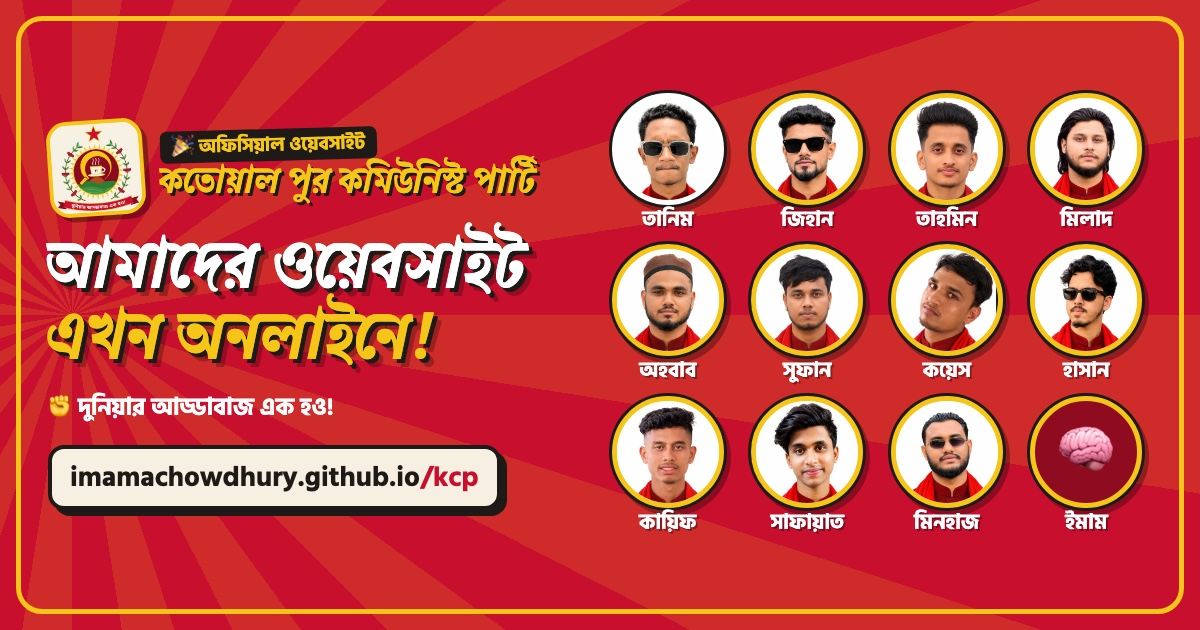
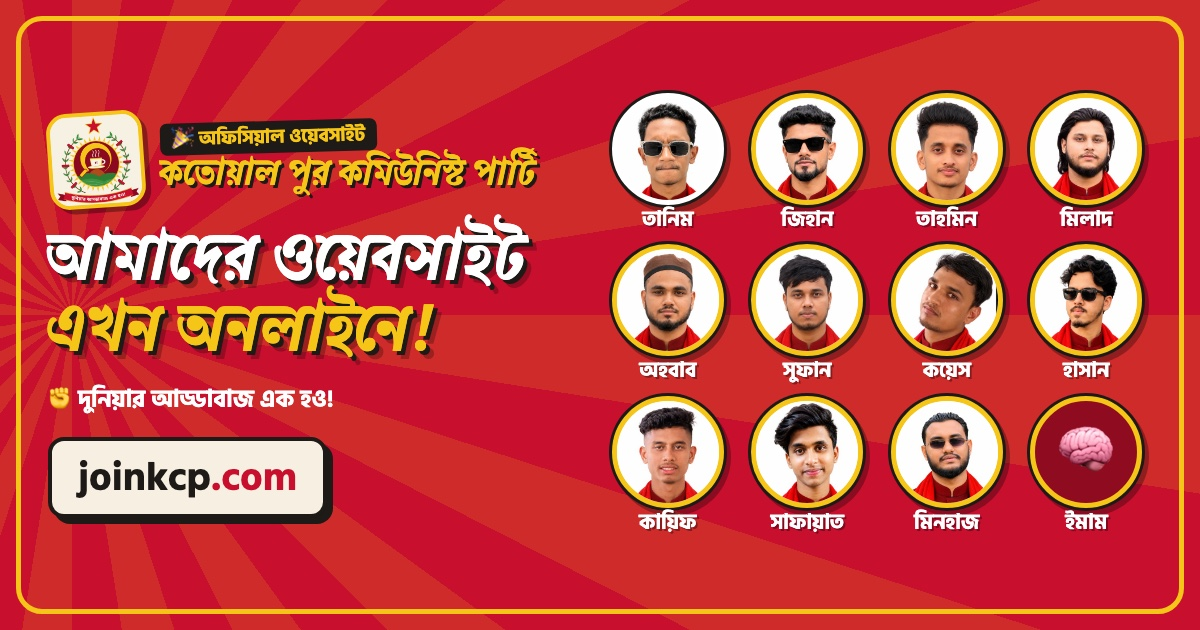
Move site to joinkcp.com

Changed region(s): [[0.0308, 0.1508, 0.4625, 0.8444]]

diff --git a/index.html b/index.html
@@ -9,8 +9,8 @@
   <meta property="og:title" content="কতোয়াল পুর কমিউনিস্ট পার্টি (KCP)">
   <meta property="og:description" content="দুনিয়ার আড্ডাবাজ এক হও! চা আমাদের অধিকার, আড্ডা আমাদের সংগ্রাম।">
   <!-- ফেসবুকে শেয়ার করলে এই ছবি দেখাবে -->
-  <meta property="og:url" content="https://imamachowdhury.github.io/kcp/">
-  <meta property="og:image" content="https://imamachowdhury.github.io/kcp/assets/og-card.jpg">
+  <meta property="og:url" content="https://joinkcp.com/">
+  <meta property="og:image" content="https://joinkcp.com/assets/og-card.jpg">
   <meta property="og:image:width" content="1200">
   <meta property="og:image:height" content="630">
   <meta property="og:type" content="website">
@@ -21,7 +21,7 @@
   <link rel="preconnect" href="https://fonts.gstatic.com" crossorigin>
   <link href="https://fonts.googleapis.com/css2?family=Galada&family=Great+Vibes&family=Hind+Siliguri:wght@400;500;600;700&display=swap" rel="stylesheet">
   <!-- আপডেটের পর ?v= নম্বর বাড়ান (style.css ও script.js দুটোতেই), তাহলে সবার ব্রাউজারে নতুন ফাইল আসবে -->
-  <link rel="stylesheet" href="style.css?v=23">
+  <link rel="stylesheet" href="style.css?v=24">
 </head>
 <body>
 
@@ -388,6 +388,6 @@
   <div class="toast" id="toast" role="status" aria-live="polite"></div>
   <canvas id="confetti" aria-hidden="true"></canvas>
 
-  <script src="script.js?v=23"></script>
+  <script src="script.js?v=24"></script>
 </body>
 </html>

diff --git a/script.js b/script.js
@@ -138,7 +138,7 @@ const store = {
   get(k, d) { try { const v = localStorage.getItem(k); return v === null ? d : JSON.parse(v); } catch { return d; } },
   set(k, v) { try { localStorage.setItem(k, JSON.stringify(v)); } catch { /* ব্রাউজার স্টোরেজ বন্ধ থাকলে কিছু হবে না */ } },
 };
-const SITE = "https://imamachowdhury.github.io/kcp/";
+const SITE = "https://joinkcp.com/";
 const buzz = (p) => { try { if (navigator.vibrate) navigator.vibrate(p); } catch { /* কিছু ফোনে কাঁপুনি নেই */ } };
 // নামের ডাকনাম অংশ (চাকায় লেখার জন্য): "ইকরামুল হক হাসান" → "হাসান"
 const shortName = (n) => n.split(" ").filter((w) => !["আহমদ", "চৌধুরী", "আল", "রহমান", "হক"].includes(w)).pop() || n;

diff --git a/README.md b/README.md
@@ -58,6 +58,8 @@ git push -u origin main
 
 ৪. ১-২ মিনিট পর সাইট চালু হবে এখানে: `https://<your-username>.github.io/kcp/`
 
+নিজস্ব ডোমেইন: সাইটটি এখন **https://joinkcp.com** ঠিকানায় চলে (Cloudflare-এ কেনা)। Cloudflare DNS-এ `@`-এর জন্য GitHub-এর ৪টা A রেকর্ড (185.199.108–111.153) আর `www` → `imamachowdhury.github.io` CNAME রেকর্ড আছে, সবগুলো "DNS only" (ধূসর মেঘ)। GitHub-এ Settings → Pages → Custom domain-এ `joinkcp.com` দেওয়া আছে।
+
 পরে কিছু বদলালে প্রথমে `index.html`-এ `style.css?v=` আর `script.js?v=` নম্বর এক বাড়িয়ে দিন (যেমন ৮ থেকে ৯), যাতে সবার ব্রাউজারে পুরোনো ফাইল না থাকে। তারপর:
 
 ```bash
